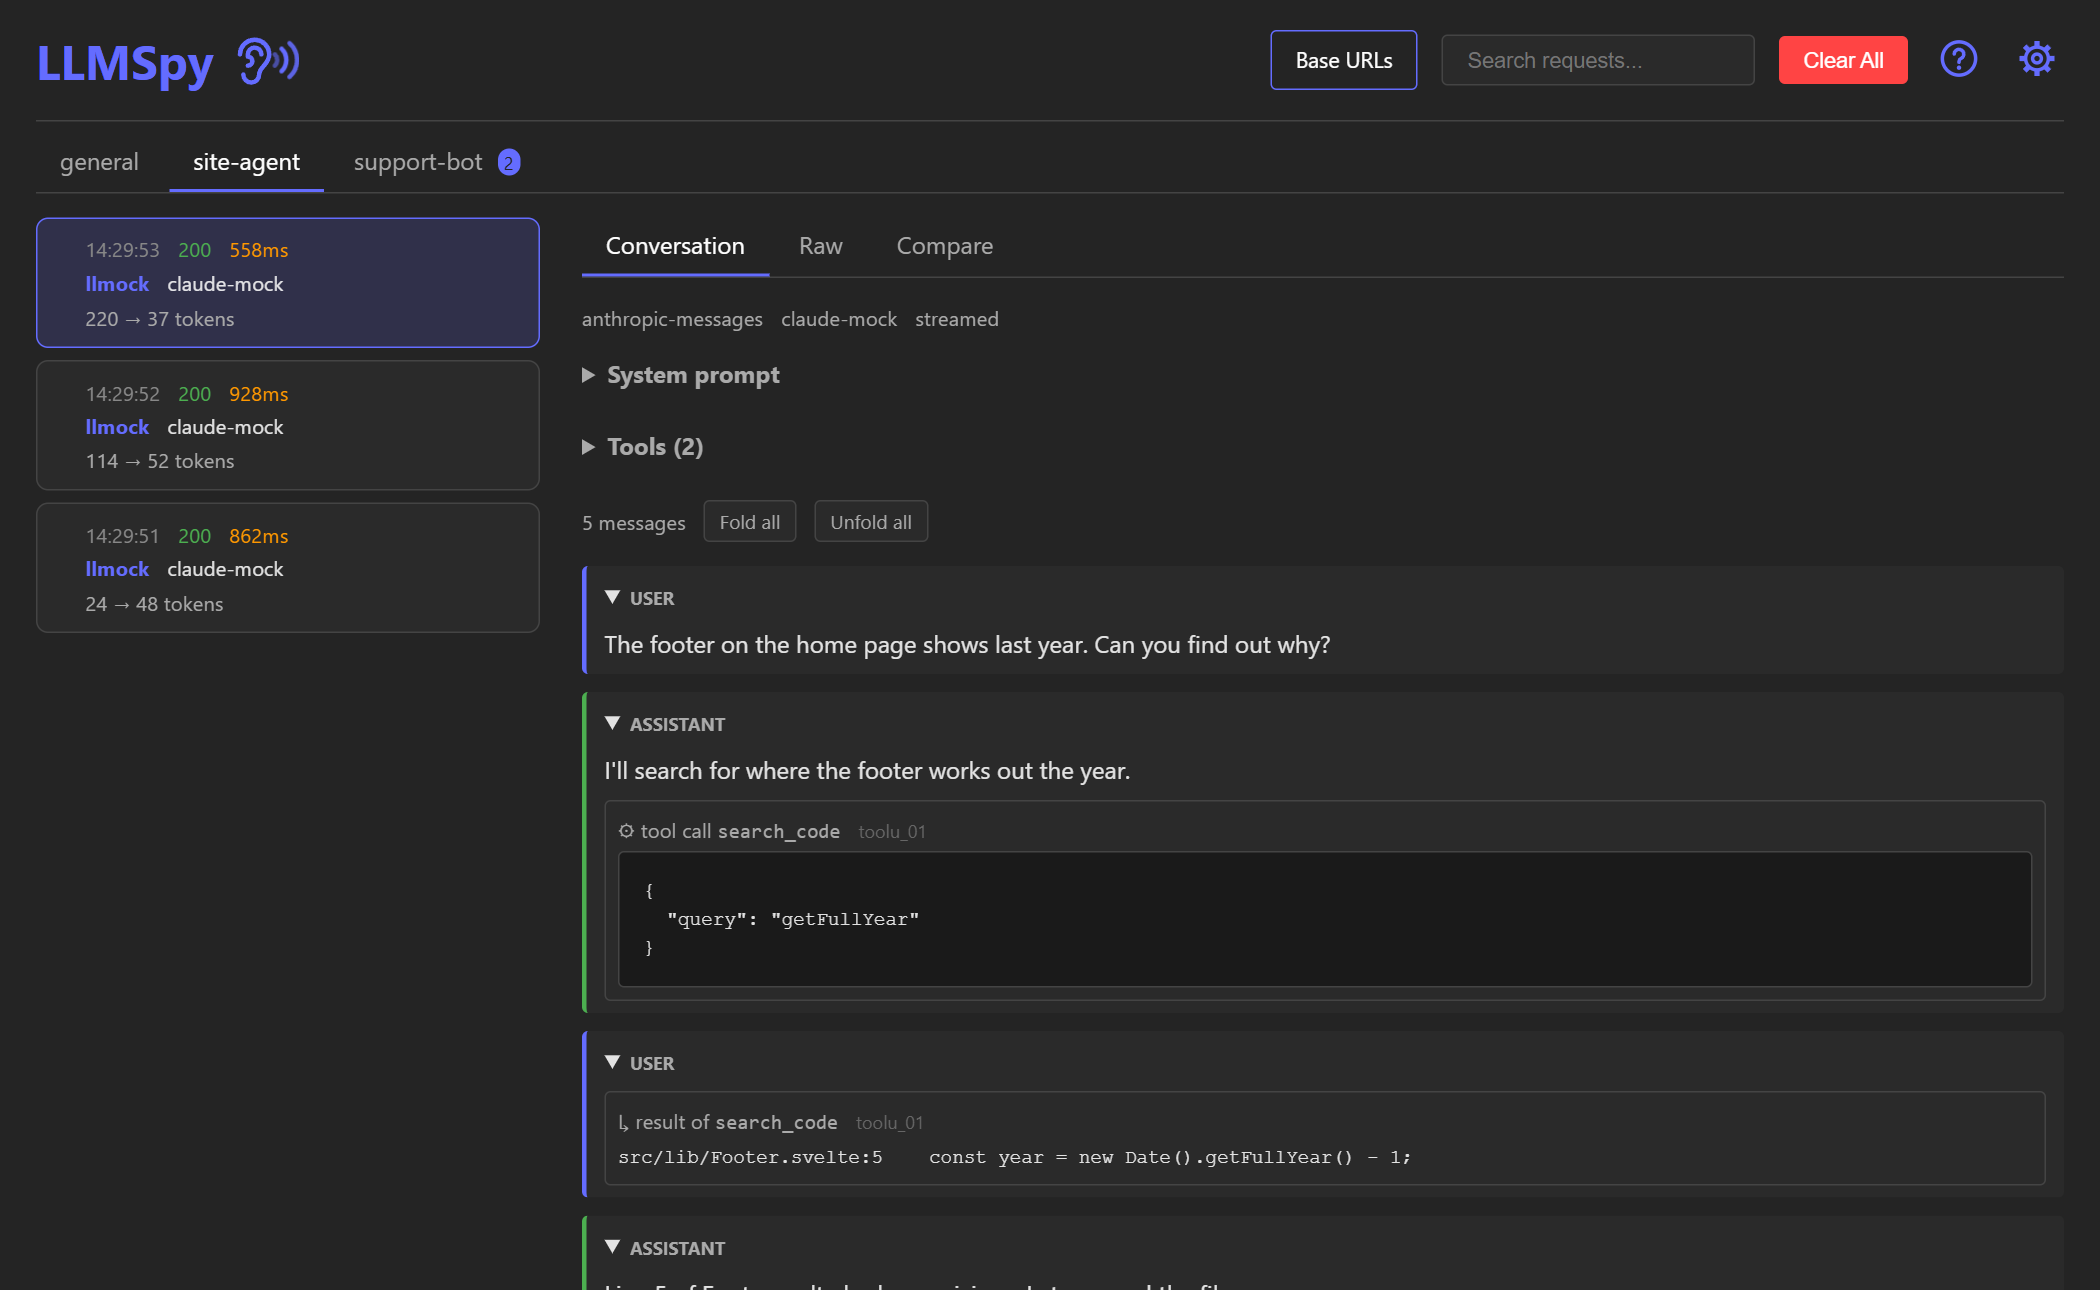
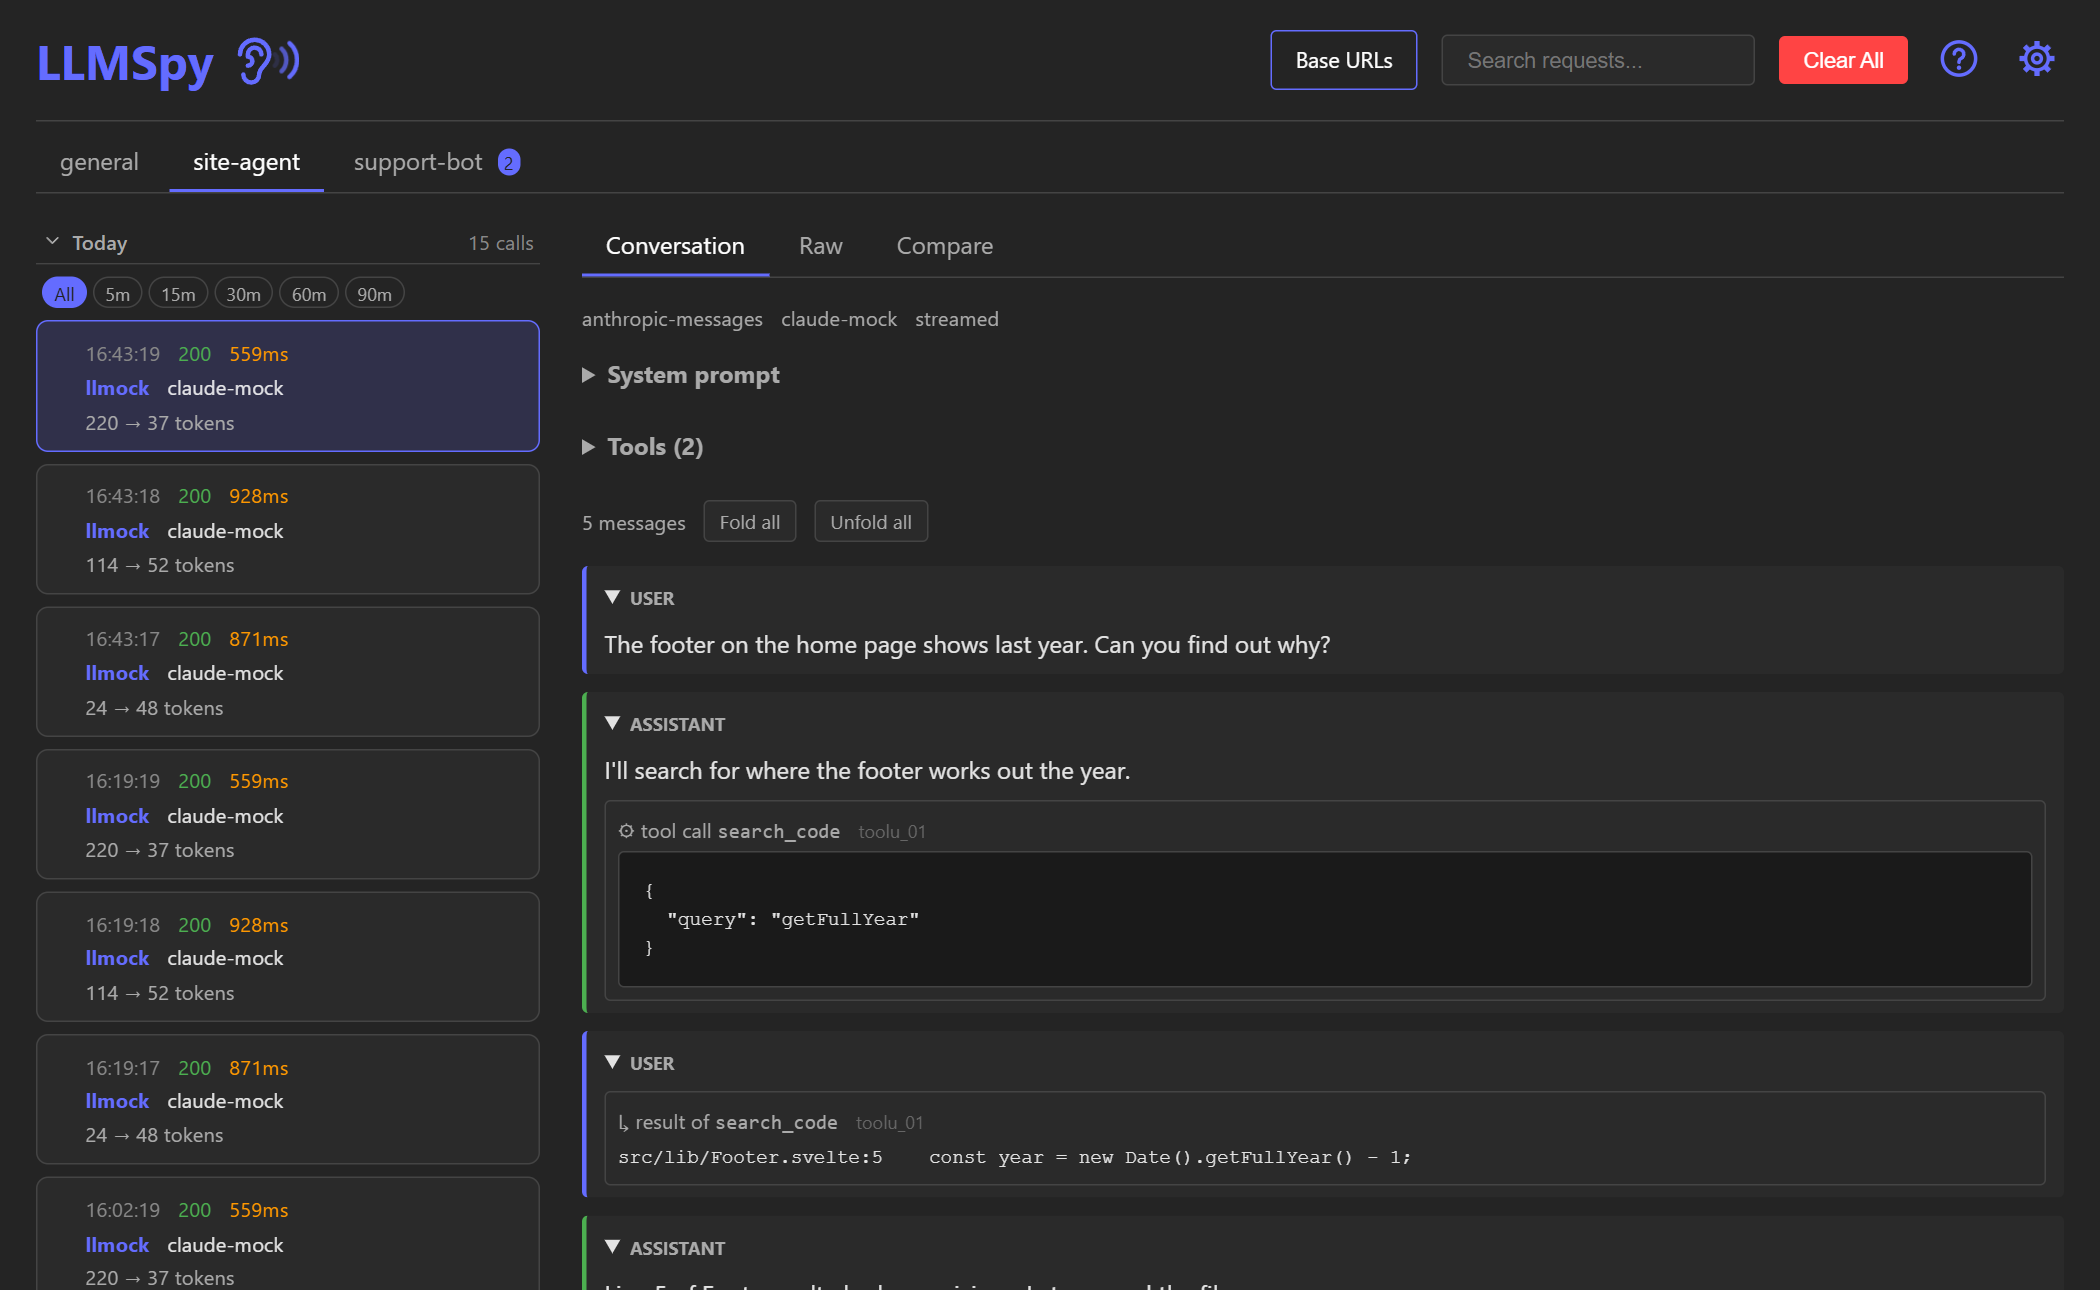
docs: retake the screenshots and show the day list
The screenshots were taken before project tabs, day groups and the
recent-minutes chips. All five are retaken with the same made-up coding
agent traffic in a site-agent project, and a new one shows the list
narrowed to the last 15 minutes with older days folded below. Two
captions now say what their screenshots show.

diff --git a/README.md b/README.md
@@ -36,7 +36,13 @@ It is for local development only. It listens on `127.0.0.1`, masks API keys in w
 
 ## What you see
 
-Every call appears in the list on the left as soon as it is sent, newest first, with its status, time taken and token counts. A call still running is marked `waiting` or `replying` with a running timer; its reply shows once it ends. Select one to look at it three ways.
+Every call appears in the list on the left as soon as it is sent, newest first, with its status, time taken and token counts. A call still running is marked `waiting` or `replying` with a running timer; its reply shows once it ends.
+
+The list is grouped by day, with older days folded away. The chips under Today show only its calls from the last 5 to 90 minutes, such as one run of an agent, and its heading counts how many are shown.
+
+<img src="docs/screenshots/days.png" width="300" alt="The call list narrowed to the last 15 minutes: Today shows 3 of 15 calls, with Yesterday and Thu 12 Nov folded below">
+
+Select a call to look at it three ways.
 
 **Conversation** (above) reads the call as the model sees it: the system prompt and tools, then each message by role, with tool calls matched to their results, and the reply at the end with its stop reason and token use. Streamed replies are put back together. LLMSpy reads the Anthropic Messages, OpenAI Chat Completions and OpenAI Responses formats.
 
@@ -50,7 +56,7 @@ Every call appears in the list on the left as soon as it is sent, newest first, 
 
 Under the summary, a line diff of the two request bodies shows everything else that changed, such as `max_tokens`, `temperature` or a tool's schema, with unchanged stretches folded away.
 
-![The request body diff in the Compare tab, with the added messages in green and the changed system prompt in red and green](docs/screenshots/compare-body.png)
+![The request body diff in the Compare tab, with the messages the later call added in green](docs/screenshots/compare-body.png)
 
 The traffic in these screenshots is made up, sent to the mock server described under [Testing without an API key](#testing-without-an-api-key).
 
@@ -90,7 +96,7 @@ $env:ANTHROPIC_BASE_URL = "http://127.0.0.1:8080/@my-app/anthropic"
 
 Calls without a tag go to `general`. A project name is lowercase letters, digits and dashes, like an upstream name. The tabs appear once there is a project besides `general`; a tab you are not viewing counts its new calls. A search looks in every project: while it is on, each tab counts its matches instead. Clear All empties only the project you are viewing.
 
-![Project tabs under the header: general, site-agent (selected, its three calls listed) and support-bot with a badge for two new calls](docs/screenshots/projects.png)
+![Project tabs under the header: general, site-agent (selected, its calls listed) and support-bot with a badge for two new calls](docs/screenshots/projects.png)
 
 For coding agents and scripts, [llms.txt](llms.txt) is a compact reference: how to run LLMSpy, point an app at it, and read the captured traffic as JSON.
 
